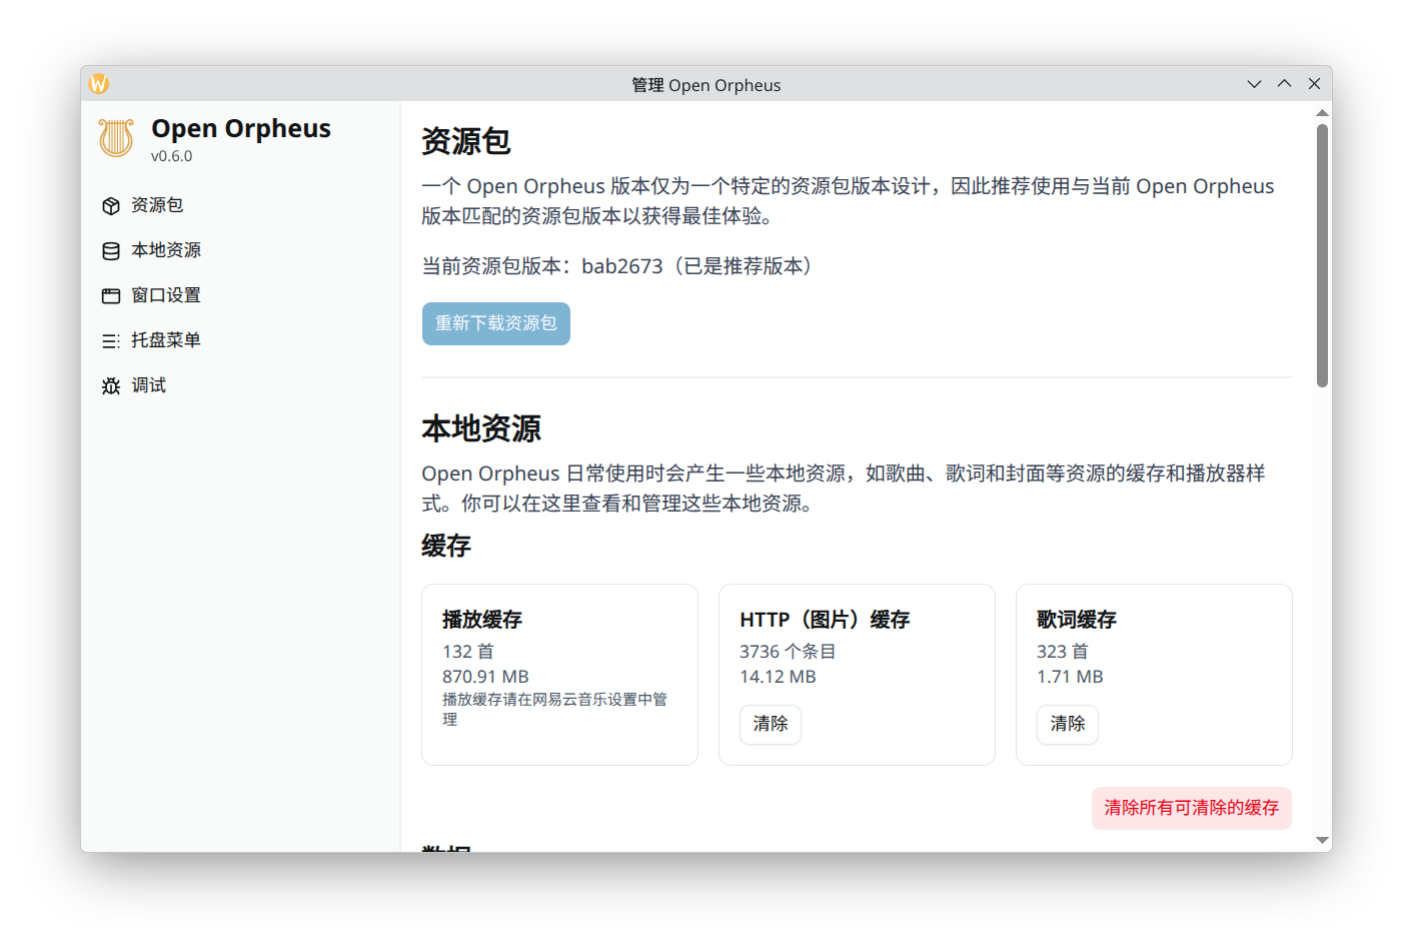
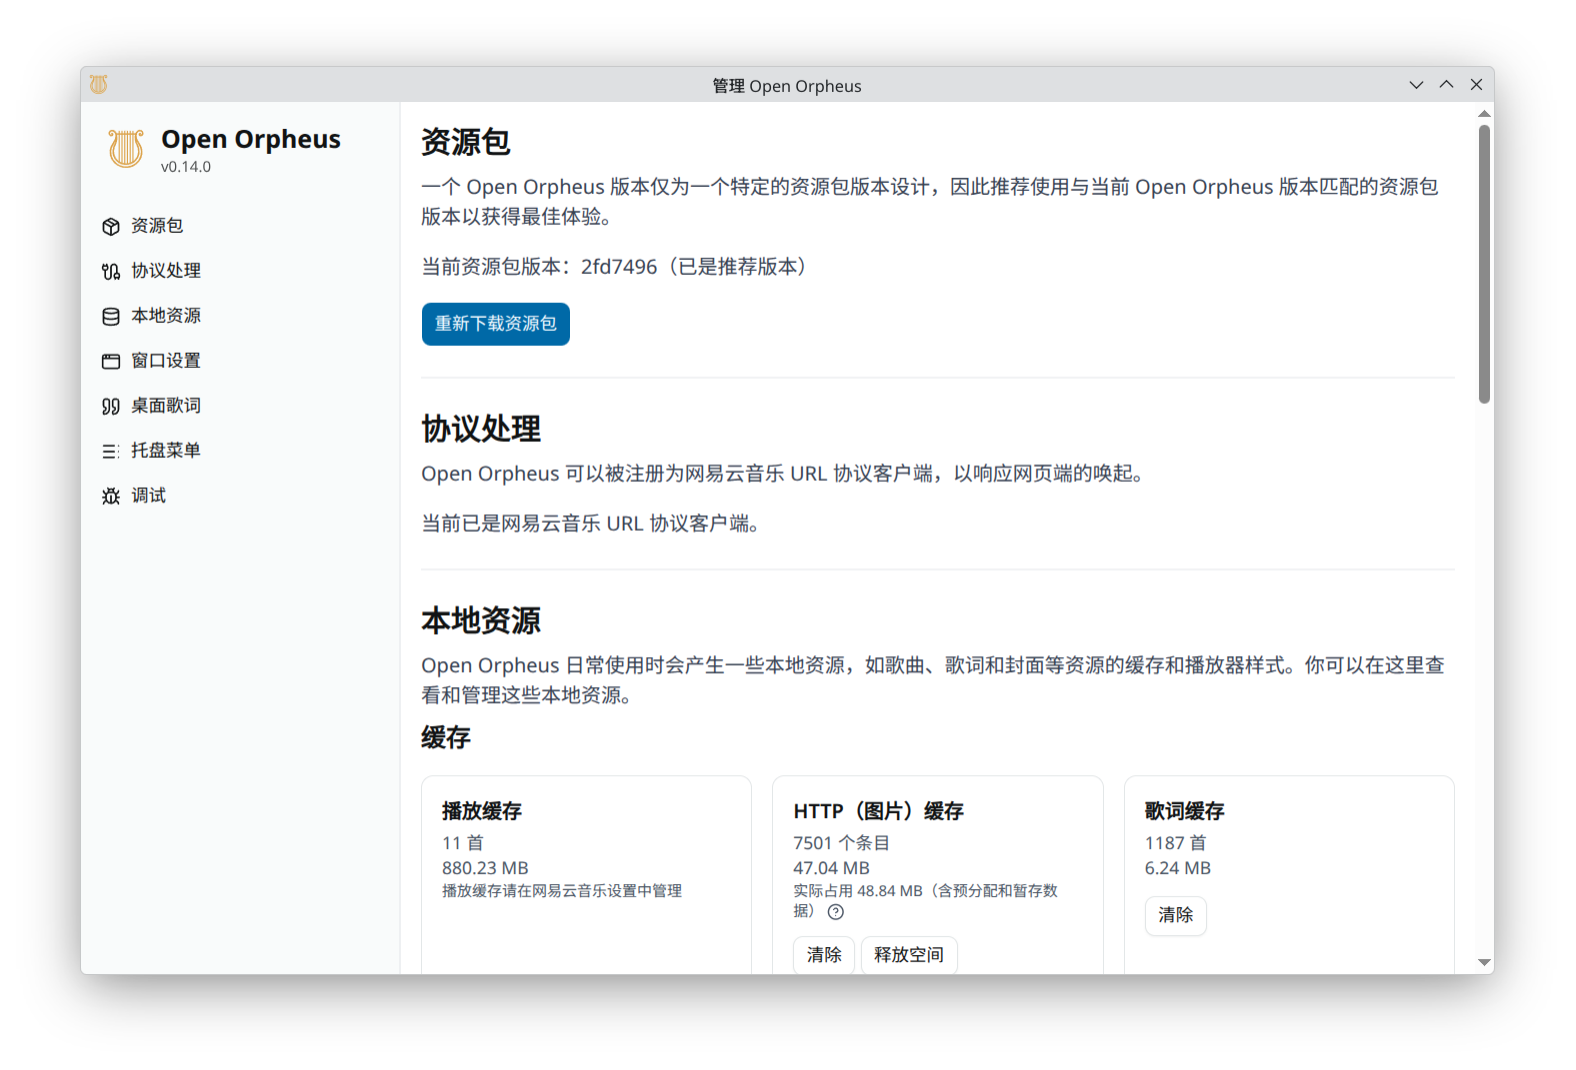
chore: add screenshots to readme

Changed region(s): [[0.0311, 0.0612, 0.9653, 0.9177]]

diff --git a/docs/README_en.md b/docs/README_en.md
@@ -12,9 +12,50 @@ Track the project's current dev plans at https://github.com/users/YUCLing/projec
 ## Features
 
 - Cross-platform support
+  - Excellent native Wayland support
+  - X11
+  - macOS
+  - Windows
 - Open-source
 
-What else do you expect! It just provides a environment for the original client!
+What else do you expect! It just provides an environment for the original client!
+
+## Screenshots
+
+<details>
+<summary>Main Interface</summary>
+
+![Main Interface](../assets/screenshots/1.png)
+
+</details>
+
+<details>
+<summary>Playback Interface</summary>
+
+![Playback Interface](../assets/screenshots/2.png)
+
+</details>
+
+<details>
+<summary>Settings Interface</summary>
+
+![Settings Interface](../assets/screenshots/3.png)
+
+</details>
+
+<details>
+<summary>Mini Player & Desktop Lyrics</summary>
+
+![Mini Player & Desktop Lyrics](../assets/screenshots/4.png)
+
+</details>
+
+<details>
+<summary>Mini Player List</summary>
+
+![Mini Player List](../assets/screenshots/5.png)
+
+</details>
 
 ## Installation
 

diff --git a/README.md b/README.md
@@ -14,9 +14,50 @@
 ## 功能
 
 - 跨平台支持
+  - 优秀的原生 Wayland 支持
+  - X11
+  - macOS
+  - Windows
 - 开源
 
 不然你还想要啥！它本质上就是给原版客户端提供一个运行环境！
+
+## 截图
+
+<details>
+<summary>主界面</summary>
+
+![主界面](assets/screenshots/1.png)
+
+</details>
+
+<details>
+<summary>播放界面</summary>
+
+![播放界面](assets/screenshots/2.png)
+
+</details>
+
+<details>
+<summary>设置界面</summary>
+
+![设置界面](assets/screenshots/3.png)
+
+</details>
+
+<details>
+<summary>迷你播放器和桌面歌词</summary>
+
+![迷你播放器和桌面歌词](assets/screenshots/4.png)
+
+</details>
+
+<details>
+<summary>迷你播放器列表</summary>
+
+![迷你播放器列表](assets/screenshots/5.png)
+
+</details>
 
 ## 安装
 